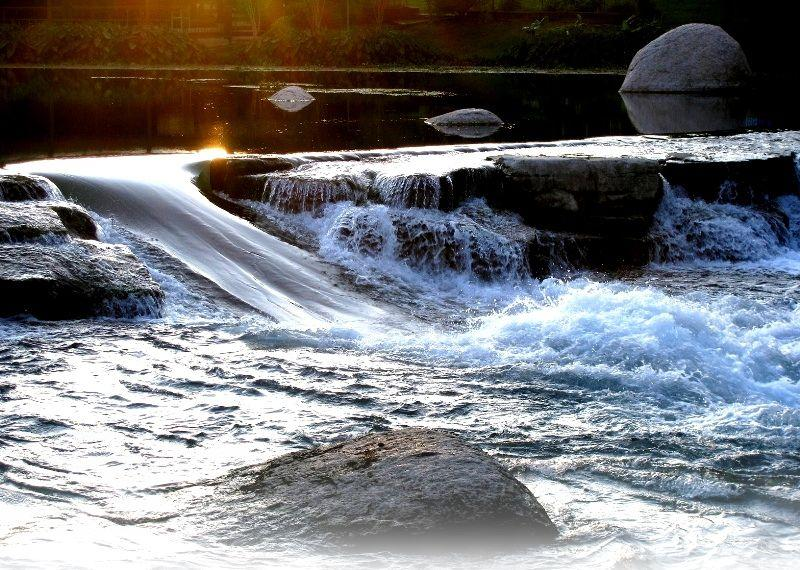
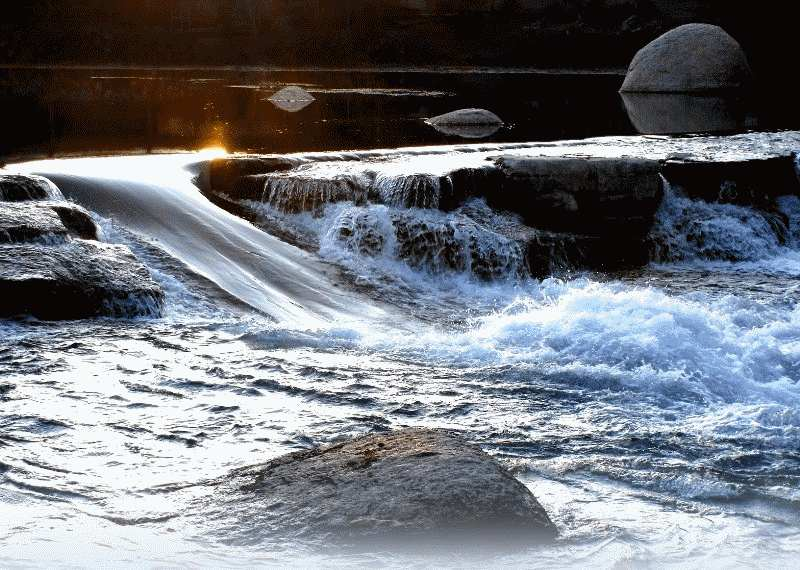
resized down images.  cool placement of 'froth' image.  TODO remarks.

diff --git a/smrf-about.htm b/smrf-about.htm
@@ -28,10 +28,10 @@
 
     <div class="sixteen columns">
 
-        <div class="eight columns alpha">
+        <div class="ten columns alpha">
             <h4 style="padding-top: 34px; padding-bottom: 14px;">About the envisioned page for S.M.R.F.:</h4>
-            <div class="box" style="opacity: 0.9; background-color:white;">
-                <h5>Some opinions:</h5>
+            <div class="box" style="opacity: 0.9; background-color:white; padding-top: 34px; padding-bottom: 34px; border: 2px solid navy">
+                <h5>Some opinions:</h5>  <br />
                 <ul class="square">
 
                     <li>
@@ -43,8 +43,7 @@
                         Lovely photographs can be presented more strongly.  I took the photo on this page about a month ago, below the first weir at Rio Vista.  The other photo is also mine from 2008.
                     </li>
                     <li>
-                        Renderings and schematics can be used to establish consensus about issues.  If a developer provides a <a href="http://media.cmgdigital.com/shared/img/photos/2013/01/12/8a/ae/web011313TheWoodlandsSanMarcos.jpg" target="_BLANK">graphic</a>
-                        <a href="http://media.cmgdigital.com/shared/img/photos/2013/01/14/ce/aa/web011513LazyOaksSanMarcos10p11.jpg" target="_BLANK">illustration</a> of a <a href="http://smmercury.com/wp-content/uploads/2011/11/north-campus.jpg" target="_BLANK">proposal</a>, let's put it to use.
+                        Renderings and schematics can be used to establish consensus about issues (just like land developers do).
                     </li>
                     <li>
                         An RSS feed and social media links are necessary.
@@ -61,7 +60,7 @@
                     </li>
 
                     <li>
-                        Try viewing this page on a smart-phone or iPad, or just squinch up your browser window.  This page should work well on any format.
+                        Try viewing this page on a smart-phone or iPad, or just squinch up your browser window.  You should find it views well on small screens.
 
                     </li>
 
@@ -77,8 +76,8 @@
 
         </div>
 
-        <div id="nav" class="eight columns omega">
-            <div class="four columns alpha offset-by-four">
+        <div id="nav" class="six columns omega">
+            <div class="four columns alpha offset-by-two">
 
                 <div class="box reddy medium">
                     <a href="smrf.htm"><h5>Back</h5></a>
@@ -86,10 +85,12 @@
             </div>
 
             <div class="clear"></div>  <!--- ####-####-#### -->
-            <div class="box-image">
+            <div class="xbox-image" style="margin: -20px -10px 0px -20px;">
 
                 <!-- <img src="images/rio_vista_chute-38.png" /> -->
-                <img src="images/froth.jpg" height="600px" width="auto" />
+                <img src="images/froth.gif" style="width:100%; height:100%;" />
+                <!-- <img src="images/froth.jpg" height="752px" width="546px" /> -->
+                <!-- <img src="images/froth.jpg" /> -->
 
             </div>
         </div>

diff --git a/web-design.htm b/web-design.htm
@@ -13,7 +13,7 @@
     <link rel="stylesheet" href="stylesheets/skeleton.css">
     <link rel="stylesheet" href="stylesheets/layout.css">
 
-    <link rel="stylesheet" href="stylesheets/color_reddy.css">
+    <link rel="stylesheet" href="stylesheets/color_bluey.css">
     <style type="text/css">
 /*        .container {
             background-color: navy;
@@ -32,8 +32,8 @@
          <div id="masthead" class="twelve columns alpha">
 
             <h1>Scott Morse</h1>
+            <h4>HTML, CSS3, and a good sense of user experience.</h4>
 
-            <h4>I had to dig deep.  Are you "shovel-ready"?</h4>
         </div>
 
 
@@ -46,30 +46,39 @@
 
                 <div class="clear half-bottom"></div>  <!--- ####-####-#### -->
 
-                <div id="go-home" class="box reddy light">
+                <div id="go-home" class="box bluey light">
                     <a href="index.htm"><h5>Home Page</h5></a>
                 </div>
-
-
 
             </div>
 
 
         </div>
+
         <div class="clear"></div>  <!--- ####-####-#### -->
 
     </div>
 
     <div class="sixteen columns">
-        <div class="box" style="height: 200px">
+        <div class="box">
             <br /><br /><br />
-            <ul>
+            <ul class="square">
                 <li>
-                    Not sure how to accomplish this, but hopefully the Get Off Yourself site will ensconce itself right in here.
+                    The Sublime Text 2 text editor is making everything possible.
                 </li>
                 <li>
-                    No, I don't really want this solid black framing ...
+                    I've learned so much about CSS3, and I'm having a ball with it.
                 </li>
+                <li>
+                    Skeleton is the successor to the 960 Grid.  I love it.
+                </li>
+                <li>
+                    Yet another discovery is semantic CSS.  I want my work to be accessible to all devices.  I want the logical order to be apparent when all formatting is stripped away.
+                </li>
+                <li>
+                    Emmett is the successor to Zen Coding.  I still haven't seriously worked myself into it, but I will.
+                </li>
+
             </ul>
 
         </div>

diff --git a/smrf.htm b/smrf.htm
@@ -39,7 +39,7 @@
     <div id="backdrop-graphic" class="sixteen columns alpha omega">
         <div class="box-image">
 
-            <img src="images/rio_vista_chute.gif" />
+            <img src="images/rio_vista_chute.jpg" />
 
         </div>
     </div>
@@ -52,7 +52,7 @@
          <div id="masthead" class="twelve columns alpha">
 
             <h2>the San Marcos River Foundation</h2>
-            <h4>(Only the orange links go anywhere.)</h4>
+            <h4>(Only the <span style="text-decoration: line-through">orange</span> yellow links go anywhere.)</h4>
 
         </div>
 
@@ -64,20 +64,20 @@
                 <a href="smrf-about.htm"><h5>About This Proposed</h5></a>
             </div>
 
-            <div class="box bluey dark">
+            <div class="box greeny dark">
                 <h5>River Activities</h5>
             </div>
 
-            <div class="box bluey medium">
+            <div class="box greeny medium">
                 <h5>Current Conditions</h5>
 
             </div>
 
-            <div class="box bluey light">
+            <div class="box greeny light">
                 <h5>Calendar</h5>
             </div>
 
-            <div class="box bluey pale">
+            <div class="box greeny pale">
                 <h5>River Clean-Up</h5>
             </div>
 
@@ -88,6 +88,8 @@
             <div class="box greeny light">
                 <h5>Water Quality Testing</h5>
             </div>
+
+
             <div class="box greeny medium">
                 <h5>Projects</h5>
             </div>

diff --git a/index.htm b/index.htm
@@ -29,6 +29,7 @@
     <div id="backdrop-graphic" class="sixteen columns alpha omega">
         <div class="box-image">
             <!-- TODO: image alt -->
+            <!-- TODO: Create a caption for photos like these. -->
             <img src="images/yellow_sunset.jpg" />
 
         </div>
@@ -55,26 +56,30 @@
             </div>
 
             <div class="box orangey medium">
-                <!-- <a href="photography.htm"> -->
+                <a href="photography.htm">
                 <h5>Photography</h5>
-                <!-- </a> -->
+                </a>
             </div>
 
             <div class="box orangey dark">
-                <!-- <a href="coaching.htm"> -->
+                <a href="coaching.htm">
                     <h5>Coaching</h5>
-                <!-- </a> -->
+                </a>
             </div>
 
             <!-- <div id="go-web-dev" class="box light"> -->
             <div class="box greeny light">
-                <!-- <a href="web-dev.htm"> -->
+                <a href="web-dev.htm">
                     <h5>Web Dev</h5>
-                <!-- </a> -->
+                </a>
             </div>
 
             <div class="box greeny medium">
-                <h5>HTML CSS3</h5>
+
+
+                <a href="web-design.htm">
+                    <h5>HTML &amp; CSS3</h5>
+                </a>
             </div>
 
             <div class="box greeny dark">

diff --git a/web-dev.htm b/web-dev.htm
@@ -25,7 +25,7 @@
     <script src="scripts/layout.js"></script>
 
 </head>
-<body>
+<body class="dark">
 <div class="container">
     <div class="sixteen columns">
 
@@ -50,9 +50,7 @@
                     <a href="index.htm"><h5>Home Page</h5></a>
                 </div>
 
-                <div class="box reddy medium">
-                    <h5>Skills</h5>
-                </div>
+
 
             </div>
 
@@ -65,11 +63,18 @@
 
     <div class="sixteen columns">
         <div class="box" style="height: 200px">
-
+            <br /><br /><br />
             <ul>
                 <li>
-                    http://www.gcmingati.net/wordpress/wp-content/lab/jquery/imagestrip/imageslide-plugin.html
+                    I need to demonstrate PHP, MySQL, querying, and my uncanny ability to wring meaningful information from the data.
                 </li>
+                <li>
+                    This is done by showing off the Sparts database.  I think a gallery slideshow may work best.
+                </li>
+                <li>
+                    My career in Microsoft Access also finds a place here.
+                </li>
+
             </ul>
 
         </div>

diff --git a/photography.htm b/photography.htm
@@ -50,10 +50,6 @@
                     <a href="index.htm"><h5>Home Page</h5></a>
                 </div>
 
-                <div class="box bluey medium">
-                    <h5>Skills</h5>
-                </div>
-
             </div>
 
 
@@ -64,11 +60,15 @@
 
     <div class="sixteen columns">
         <div class="box" style="height: 200px">
-
+        <br /><br /><br />
             <ul>
                 <li>
-                    http://www.gcmingati.net/wordpress/wp-content/lab/jquery/imagestrip/imageslide-plugin.html
+                    This page calls for a <a href="http://www.gcmingati.net/wordpress/wp-content/lab/jquery/imagestrip/imageslide-plugin.html" target="_BLANK">slider-gallery</a> of a dozen or so photographs.
                 </li>
+                <li>
+                    I believe photography will be occasionally useful on web projects.  I'm not an expert, but I have aptitude.   Who wants stock images all the time?
+                </li>
+
             </ul>
 
         </div>

diff --git a/stylesheets/layout.css b/stylesheets/layout.css
@@ -57,7 +57,7 @@
         -moz-border-radius: 6px;
         -webkit-border-radius: 6px;
         border-radius: 6px;
-        padding: 4px 2px 3px 8px;
+        padding: 4px 2px 3px 6px;
         /*opacity: 0.95;*/
         overflow: hidden;
         /*margin-left: 6px;*/
